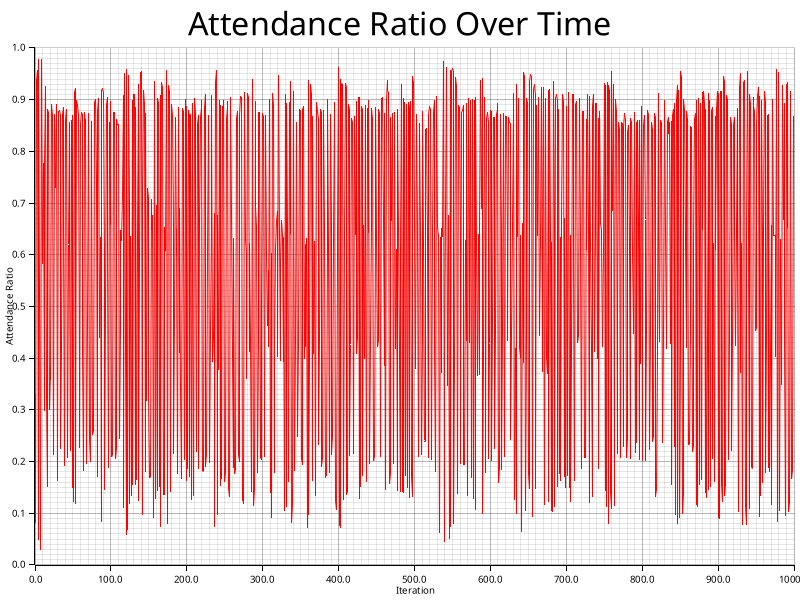
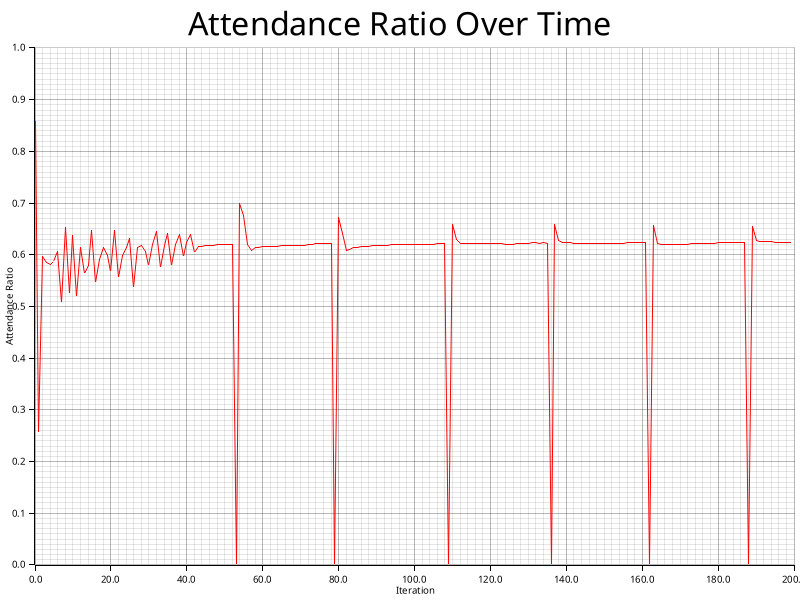
sym

diff --git a/el_farol_sim/src/bin/simulation.rs b/el_farol_sim/src/bin/simulation.rs
@@ -1,8 +1,7 @@
 use dotenvy;
 use el_farol_lib::simulation_logic::{
     policy::{
-        AlwaysGo, MovingAveragePolicy, NeverGo, PredictFromDayBeforeYesterday,
-        PredictFromYesterday, RandomPolicy,
+       *
     },
     simulation::{Simulation, SimulationConfig},
 };
@@ -27,9 +26,25 @@ fn main() -> Result<(), Box<dyn Error>> {
         Box::new(PredictFromYesterday),
         Box::new(PredictFromDayBeforeYesterday),
         Box::new(RandomPolicy),
-        Box::new(MovingAveragePolicy::<3>),
-        Box::new(MovingAveragePolicy::<5>),
-        Box::new(MovingAveragePolicy::<10>),
+        // Box::new(MovingAveragePolicy::<3>),
+        // Box::new(MovingAveragePolicy::<5>),
+        // Box::new(MovingAveragePolicy::<10>),
+        Box::new(FullHistoryAveragePolicy),
+        Box::new(EvenHistoryAveragePolicy),
+        Box::new(ComplexFormulaPolicy),
+        Box::new(DrunkardPolicy),
+        Box::new(StupidNerdPolicy),
+        // Box::new(UniformPolicy::new(0.0, 1.0)),
+        // Box::new(UniformPolicy::new(0.25, 0.75)),
+        // Box::new(UniformPolicy::new(0.4, 0.6)),
+        // Box::new(WeightedHistoryPolicy::new()),
+        // Box::new(SlidingWeightedAveragePolicy::new()),
+        // Box::new(ExponentialMovingAveragePolicy::new(0.1)),
+        // Box::new(ExponentialMovingAveragePolicy::new(0.5)),
+        // Box::new(ExponentialMovingAveragePolicy::new(0.9)),
+        // Box::new(GeneralizedMeanPolicy::<5>::new(1.0)), // Arithmetic mean
+        // Box::new(GeneralizedMeanPolicy::<5>::new(2.0)), // Quadratic mean
+        // Box::new(GeneralizedMeanPolicy::<5>::new(-1.0)), // Harmonic mean
     ];
     let strategy_names: Vec<String> = initial_strategies.iter().map(|p| p.name()).collect();
 
@@ -41,8 +56,8 @@ fn main() -> Result<(), Box<dyn Error>> {
         neighbor_distance: 1,
         temperature: 1.0,
         policy_retention_rate: 0.05,
-        num_iterations: 1000,
-        rounds_per_update: 10,
+        num_iterations: 200,
+        rounds_per_update: 1,
         initial_strategies,
         start_random: true,
     };

diff --git a/README.md b/README.md
@@ -1,26 +1,29 @@
-# test_simulation
+# retention_rate_0.05
 
-test test test
+A simulation with a retention rate of 0.05
 
 ## Configuration
 
 ```
-name = "test_simulation"
-description = "test test test"
+name = "retention_rate_0.05"
+description = "A simulation with a retention rate of 0.05"
 grid_size = 100
 neighbor_distance = 1
 temperature = 1.0
-num_iterations = 1000
-rounds_per_update = 10
+policy_retention_rate = 0.05
+num_iterations = 200
+rounds_per_update = 1
 initial_strategies = [
     "Always Go",
     "Never Go",
     "Predict from yesterday",
     "Predict from day before yesterday",
     "Random",
-    "Moving Average (3)",
-    "Moving Average (5)",
-    "Moving Average (10)",
+    "Full History Average",
+    "Even History Average",
+    "Complex Formula",
+    "Drunkard",
+    "Stupid Nerd",
 ]
 start_random = true
 
@@ -34,8 +37,8 @@ start_random = true
 ## States
 
 ![state_0000.png](readme_pictures/state_0000.png)
-![state_0249.png](readme_pictures/state_0249.png)
-![state_0499.png](readme_pictures/state_0499.png)
-![state_0749.png](readme_pictures/state_0749.png)
-![state_0999.png](readme_pictures/state_0999.png)
+![state_0049.png](readme_pictures/state_0049.png)
+![state_0099.png](readme_pictures/state_0099.png)
+![state_0149.png](readme_pictures/state_0149.png)
+![state_0199.png](readme_pictures/state_0199.png)
 
